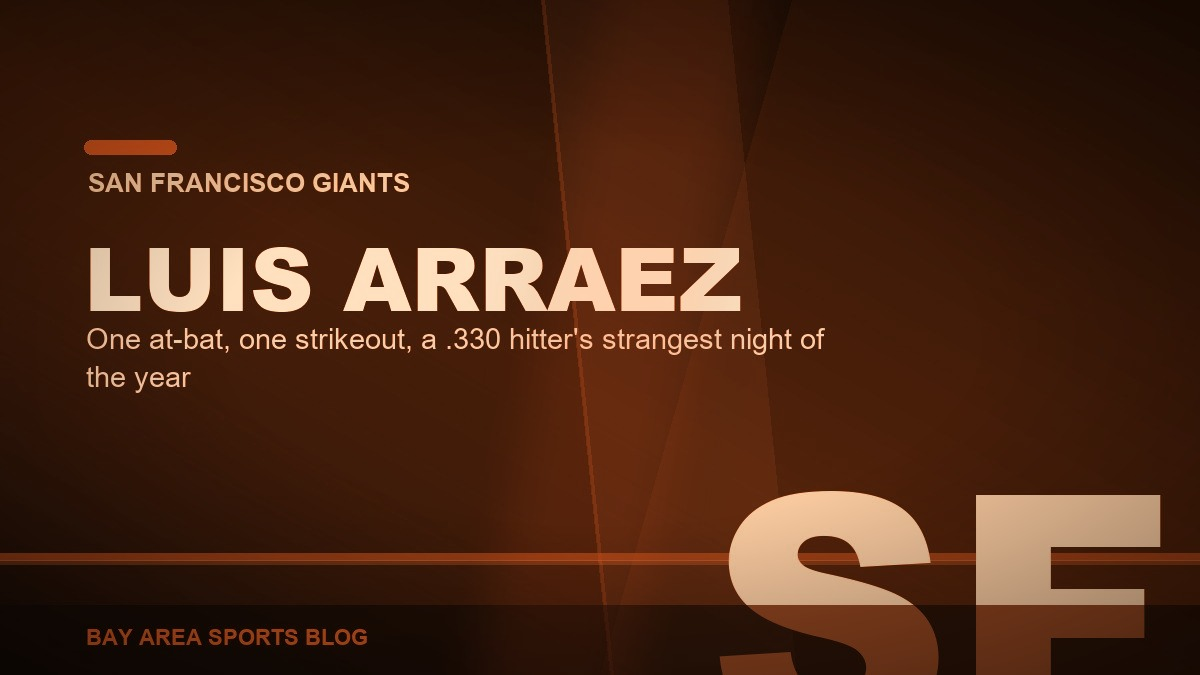
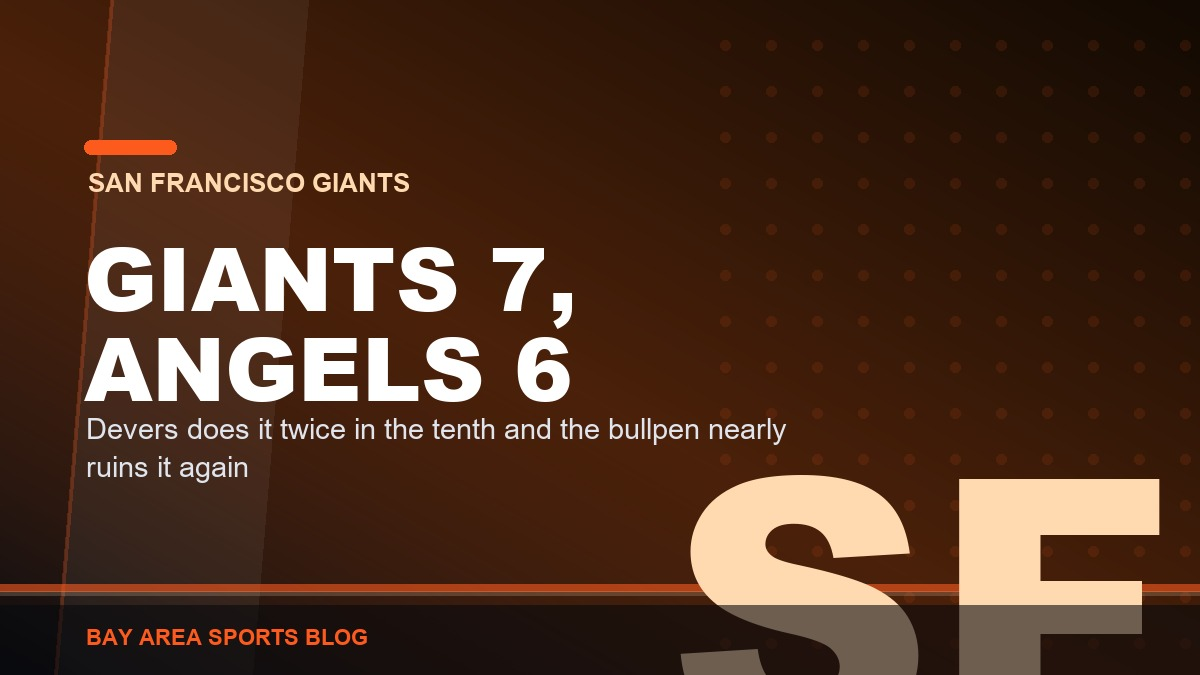
Card art: two recaps were carrying somebody else's card
giants-angels-7-6-10th-devers-walkoff-july-25 and
giants-swept-momentum-mariners-6-3-robbie-ray-eldridge-july-19 both shipped a
card reading LUIS ARRAEZ, One at-bat, one strikeout, a .330 hitter's strangest
night of the year. Neither article is about Arraez, and both alt texts already
described the right game, so the art was the thing that was wrong. Regenerated
each to its own headline.

The other three PHASH groups are left alone on purpose. Two are cardgen doing
what it is supposed to do, same Giants template, different headline text, and
one is the same Vitello photograph on two Vitello columns.

tools/dupe_report.py groups the gate's output so the difference is visible:
thumb_gate counts one failure per card per page, so ten look-alike files read as
thirty failures. Site wide pairs 7 to 4, gate rows 30 to 24. The index scoped
gate in the publish preflight passes clean.

diff --git a/tools/dupe_report.py b/tools/dupe_report.py
@@ -1,0 +1,90 @@
+"""dupe_report.py: group the thumb_gate PHASH duplicates so you can tell an accident
+from the house template.
+
+thumb_gate counts one failure per card per page, so a handful of look-alike files reads
+as dozens of failures. This prints the actual groups with each file's sha1, which
+articles use it, and the hamming distances inside the group. Same sha on two articles is
+an accident. Different shas with different headline text is cardgen doing its job.
+"""
+import os
+import re
+import sys
+import glob
+import hashlib
+from collections import defaultdict
+from PIL import Image
+import imagehash
+
+ROOT = os.path.dirname(os.path.dirname(os.path.abspath(__file__)))
+sys.path.insert(0, os.path.join(ROOT, 'tools'))
+PHASH_MIN = 6
+
+srcs = set()
+for page in glob.glob(os.path.join(ROOT, '*.html')):
+    html = open(page, encoding='utf-8').read()
+    for a in re.finditer(r'<a\b[^>]*\bhref="((?:\.\./)?(?:articles/)?[^"]+\.html)"[^>]*>(.*?)</a>', html, re.S):
+        href, block = a.group(1), a.group(2)
+        if 'articles/' not in href:
+            continue
+        im = re.search(r'<img\s+src="([^"]+)"[^>]*\salt="([^"]*)"', block, re.S)
+        if im:
+            srcs.add((im.group(1), os.path.basename(href)))
+
+by_file = defaultdict(set)
+for src, href in srcs:
+    by_file[src].add(href)
+
+meta = {}
+for src in by_file:
+    p = os.path.join(ROOT, src.lstrip('./'))
+    while '../' in p:
+        p = p.replace('../', '')
+    if not os.path.exists(p):
+        continue
+    im = Image.open(p)
+    meta[src] = {'ph': imagehash.phash(im), 'sha': hashlib.sha1(open(p, 'rb').read()).hexdigest()[:12],
+                 'size': os.path.getsize(p), 'path': p}
+
+# union find over near duplicate pairs
+parent = {s: s for s in meta}
+
+
+def find(x):
+    while parent[x] != x:
+        parent[x] = parent[parent[x]]
+        x = parent[x]
+    return x
+
+
+def union(a, b):
+    parent[find(a)] = find(b)
+
+
+keys = list(meta)
+pairs = []
+for i in range(len(keys)):
+    for j in range(i + 1, len(keys)):
+        d = meta[keys[i]]['ph'] - meta[keys[j]]['ph']
+        if d < PHASH_MIN:
+            pairs.append((d, keys[i], keys[j]))
+            union(keys[i], keys[j])
+
+groups = defaultdict(list)
+for s in meta:
+    groups[find(s)].append(s)
+
+print('cards with art:', len(meta), '| near duplicate pairs:', len(pairs))
+print()
+n = 0
+for root, members in sorted(groups.items()):
+    if len(members) < 2:
+        continue
+    n += 1
+    shas = {meta[m]['sha'] for m in members}
+    ds = [d for d, a, b in pairs if a in members and b in members]
+    kind = 'IDENTICAL FILE' if len(shas) == 1 else 'near duplicate'
+    print('GROUP %d  %s  distance %s' % (n, kind, sorted(set(ds))))
+    for m in sorted(members):
+        print('   %-62s sha=%s  %6dB  articles=%s'
+              % (os.path.basename(m), meta[m]['sha'], meta[m]['size'], sorted(by_file[m])[:2]))
+    print()
